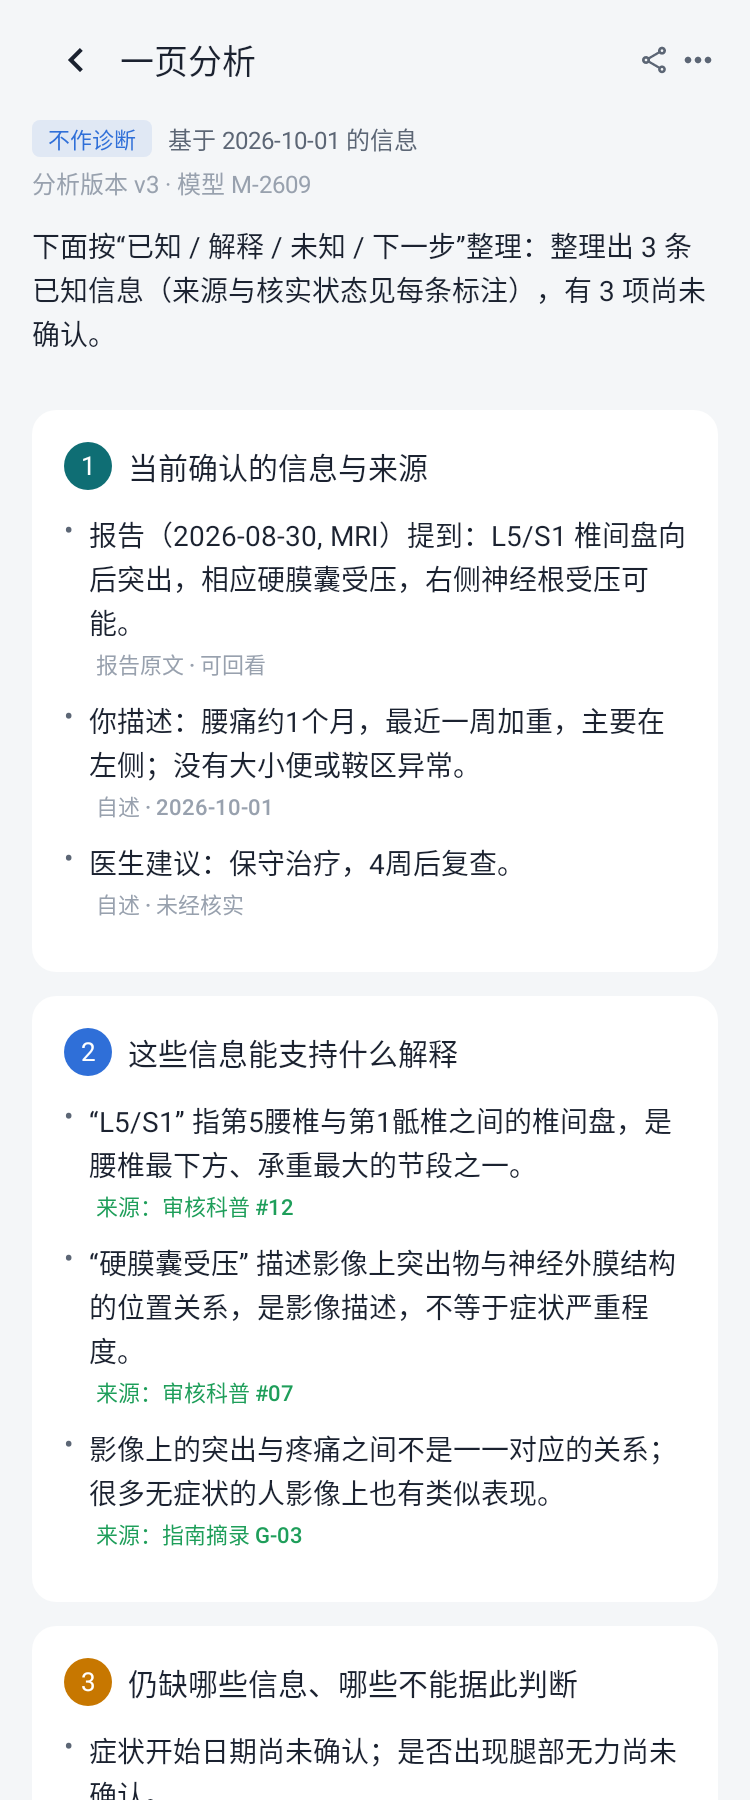
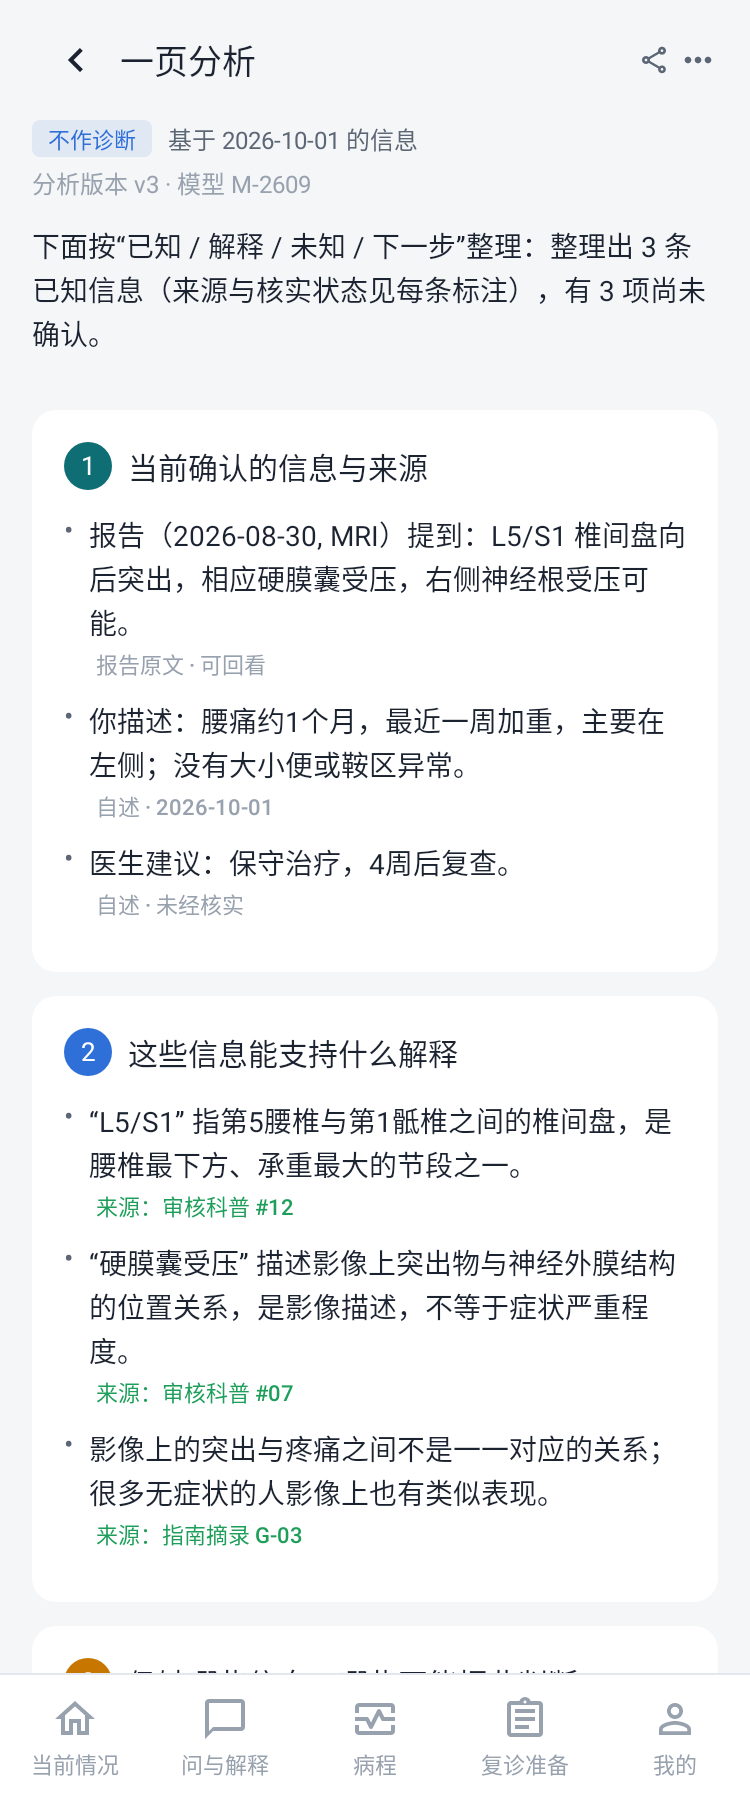
v1.00 修复冷启动崩溃与收尾问题

Changed region(s): [[0.0613, 0.9022, 0.92, 1.0]]

diff --git a/android/app/src/main/java/com/yaoyouju/app/core/navigation/YaoyoujuApp.kt b/android/app/src/main/java/com/yaoyouju/app/core/navigation/YaoyoujuApp.kt
@@ -2,6 +2,7 @@ package com.yaoyouju.app.core.navigation
 
 import androidx.compose.foundation.background
 import androidx.compose.foundation.layout.Box
+import androidx.compose.foundation.layout.consumeWindowInsets
 import androidx.compose.foundation.layout.fillMaxSize
 import androidx.compose.foundation.layout.statusBarsPadding
 import androidx.compose.material3.Scaffold
@@ -77,17 +78,17 @@ fun YaoyoujuApp(deepLink: DeepLinkRequest? = null) {
         }
     }
 
-    // 登录过期：回到登录页
-    LaunchedEffect(appState.sessionExpired) {
-        if (appState.sessionExpired) {
+    // 登录过期：回到登录页（必须等导航图就绪，否则 NavController 会崩溃）
+    LaunchedEffect(appState.sessionExpired, ready) {
+        if (ready && appState.sessionExpired) {
             appState.sessionExpired = false
             navController.navigate(Routes.Login) { popUpTo(0) { inclusive = true } }
         }
     }
 
     // 任意页面命中红旗：立即进入就医提示页
-    LaunchedEffect(appState.redFlagRequest) {
-        if (appState.redFlagRequest > 0) {
+    LaunchedEffect(appState.redFlagRequest, ready) {
+        if (ready && appState.redFlagRequest > 0) {
             navController.navigate(Routes.RedFlag) { launchSingleTop = true }
         }
     }
@@ -102,14 +103,15 @@ fun YaoyoujuApp(deepLink: DeepLinkRequest? = null) {
     Scaffold(
         containerColor = AppColors.Bg,
         snackbarHost = { SnackbarHost(snackbarHostState) },
-    ) { _ ->
+    ) { innerPadding ->
         if (!ready) {
             Box(modifier = Modifier.fillMaxSize().background(AppColors.Bg))
             return@Scaffold
         }
         val start = if (AppGraph.session.token.isNullOrBlank()) Routes.Login else Routes.Home
-        // 内容整体下移，避免 Tab 页标题压在状态栏区域
-        Box(modifier = Modifier.fillMaxSize().statusBarsPadding()) {
+        // 内容整体下移，避免 Tab 页标题压在状态栏区域；
+        // consumeWindowInsets 消费 Scaffold 内边距，避免与底部导航重复留白
+        Box(modifier = Modifier.fillMaxSize().statusBarsPadding().consumeWindowInsets(innerPadding)) {
         NavHost(navController = navController, startDestination = start) {
             val back: () -> Unit = { navController.popBackStack() }
 

diff --git a/android/app/src/test/java/com/yaoyouju/app/TimeAndSafetyLogicTest.kt b/android/app/src/test/java/com/yaoyouju/app/TimeAndSafetyLogicTest.kt
@@ -1,0 +1,30 @@
+package com.yaoyouju.app
+
+import com.yaoyouju.app.core.components.LocalSafetyTips
+import com.yaoyouju.app.core.util.BeijingTime
+import org.junit.Assert.assertEquals
+import org.junit.Assert.assertTrue
+import org.junit.Test
+
+/** 时间与安全兜底逻辑的回归测试（对应验收反馈的日期与离线提示问题）。 */
+class TimeAndSafetyLogicTest {
+
+    @Test
+    fun followupDateUsesAdviceDateNotToday() {
+        // 医嘱日期 2026-09-10 + 4 周 = 2026-10-08，而不是“今天 + 4 周”
+        assertEquals("2026-10-08", BeijingTime.plusDaysFrom("2026-09-10T00:00:00Z", 28))
+    }
+
+    @Test
+    fun followupDateAcceptsDateOnly() {
+        assertEquals("2026-10-08", BeijingTime.plusDaysFrom("2026-09-10", 28))
+    }
+
+    @Test
+    fun localSafetyTipsAlwaysHaveRedFlags() {
+        val tips = LocalSafetyTips.tips()
+        assertTrue(tips.redFlags.size >= 7)
+        assertTrue(tips.redFlags.any { it.contains("大小便") })
+        assertTrue(tips.note.isNotBlank())
+    }
+}

diff --git a/android/app/src/main/java/com/yaoyouju/app/feature/report/ReportScreen.kt b/android/app/src/main/java/com/yaoyouju/app/feature/report/ReportScreen.kt
@@ -106,10 +106,10 @@ fun ReportScreen(
                         Text(
                             text = tab.label,
                             color = if (active) AppColors.Surface else AppColors.Text2,
-                            style = MaterialTheme.typography.labelMedium,
+                            style = MaterialTheme.typography.labelSmall,
                             maxLines = 1,
                             textAlign = TextAlign.Center,
-                            modifier = Modifier.padding(horizontal = 6.dp),
+                            modifier = Modifier.padding(horizontal = 4.dp),
                         )
                     }
                 }

diff --git a/server/src/modules/safety/rules.ts b/server/src/modules/safety/rules.ts
@@ -303,6 +303,9 @@ function isNegated(segment: string, keyword: string, fromIndex: number): boolean
   if (NEG_BEFORE_LONG.some((n) => before8.includes(n))) return true;
   const after = segment.slice(idx + keyword.length, idx + keyword.length + 14);
   if (NEG_AFTER.some((n) => after.includes(n))) return true;
+  // 关键词后紧跟否定（“腿部无力没有”“无力：没有”），但跨标点的不算
+  const immediateAfter = segment.slice(idx + keyword.length, idx + keyword.length + 4);
+  if (/^[：:]?(没有|无|未见|未出现|否|否认)/.test(immediateAfter)) return true;
   return false;
 }
 

diff --git a/android/app/src/main/java/com/yaoyouju/app/feature/contentdetail/ContentDetailViewModel.kt b/android/app/src/main/java/com/yaoyouju/app/feature/contentdetail/ContentDetailViewModel.kt
@@ -29,7 +29,7 @@ class ContentDetailViewModel : ViewModel() {
 
     fun load(id: String) {
         if (id.isBlank()) {
-            state = state.copy(loading = false)
+            state = ContentDetailUiState(loading = false)
             return
         }
         viewModelScope.launch {

diff --git a/server/src/modules/safety/safety-rules.spec.ts b/server/src/modules/safety/safety-rules.spec.ts
@@ -63,6 +63,9 @@ const FEEDBACK_NORMALS = [
   '女儿昨天发烧38度我腰有点酸',
   '体温37.2医生说正常',
   '今天加班很累感觉没有力气',
+  '腿部无力没有',
+  '双腿无力：没有',
+  '腿部麻木或无力：没有',
   '体温37度',
 ];
 
